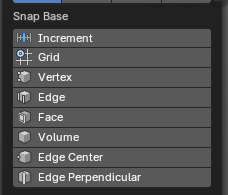
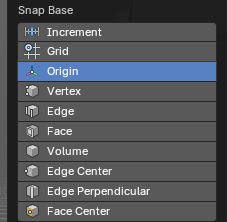
Docs 2.0: Snap Base Origin and Face Center
- Snapping popover: 'Snap to' is now 'Snap Base'; new Origin and Face Center entries
- New popover pictures
- version 5.3

Claude-Session: https://claude.ai/code/session_01TZ3cKPLjkkQu7A5AvvLPrB

diff --git a/docs2/content/editors/3d-viewport/all-modes/header/header-tools-and-options.md b/docs2/content/editors/3d-viewport/all-modes/header/header-tools-and-options.md
@@ -8,7 +8,7 @@ path:
   - "All Modes"
   - "Header"
   - "Header tools and Options"
-version: "5.1"
+version: "5.3"
 status: draft
 icon: topbar
 summary: "The header in the 3D view contains various menus and tools."
@@ -535,11 +535,11 @@ Snap median onto the target.
 
 Snap active onto the target.
 
-### Snap to
+### Snap Base
 
-![Snap to](/docs2/images/editors/3d-viewport/header/header-tools-and-options/snap-to.png)
+![Snap Base](/docs2/images/editors/3d-viewport/header/header-tools-and-options/snap-to.png)
 
-To which part of the target to snap.
+To which part of the target to snap. Hold **Shift** and click to snap to more than one kind of element.
 
 #### Increment
 
@@ -548,6 +548,10 @@ Incremental grid snapping. In Orthographic view the snapping increment changes d
 #### Grid
 
 Snap to a grid.
+
+#### Origin
+
+Snaps to the origins of the objects in the scene. Use it to place an object exactly on the origin of another object, for example to stack props or line up a light with a lamp model.
 
 #### Vertex
 
@@ -572,6 +576,10 @@ Snaps to the center of an edge.
 #### Edge Perpendicular
 
 Snap to the nearest point of an edge.
+
+#### Face Center
+
+Snaps to the center of a face.
 
 ### Snap Target for Individual Elements
 
